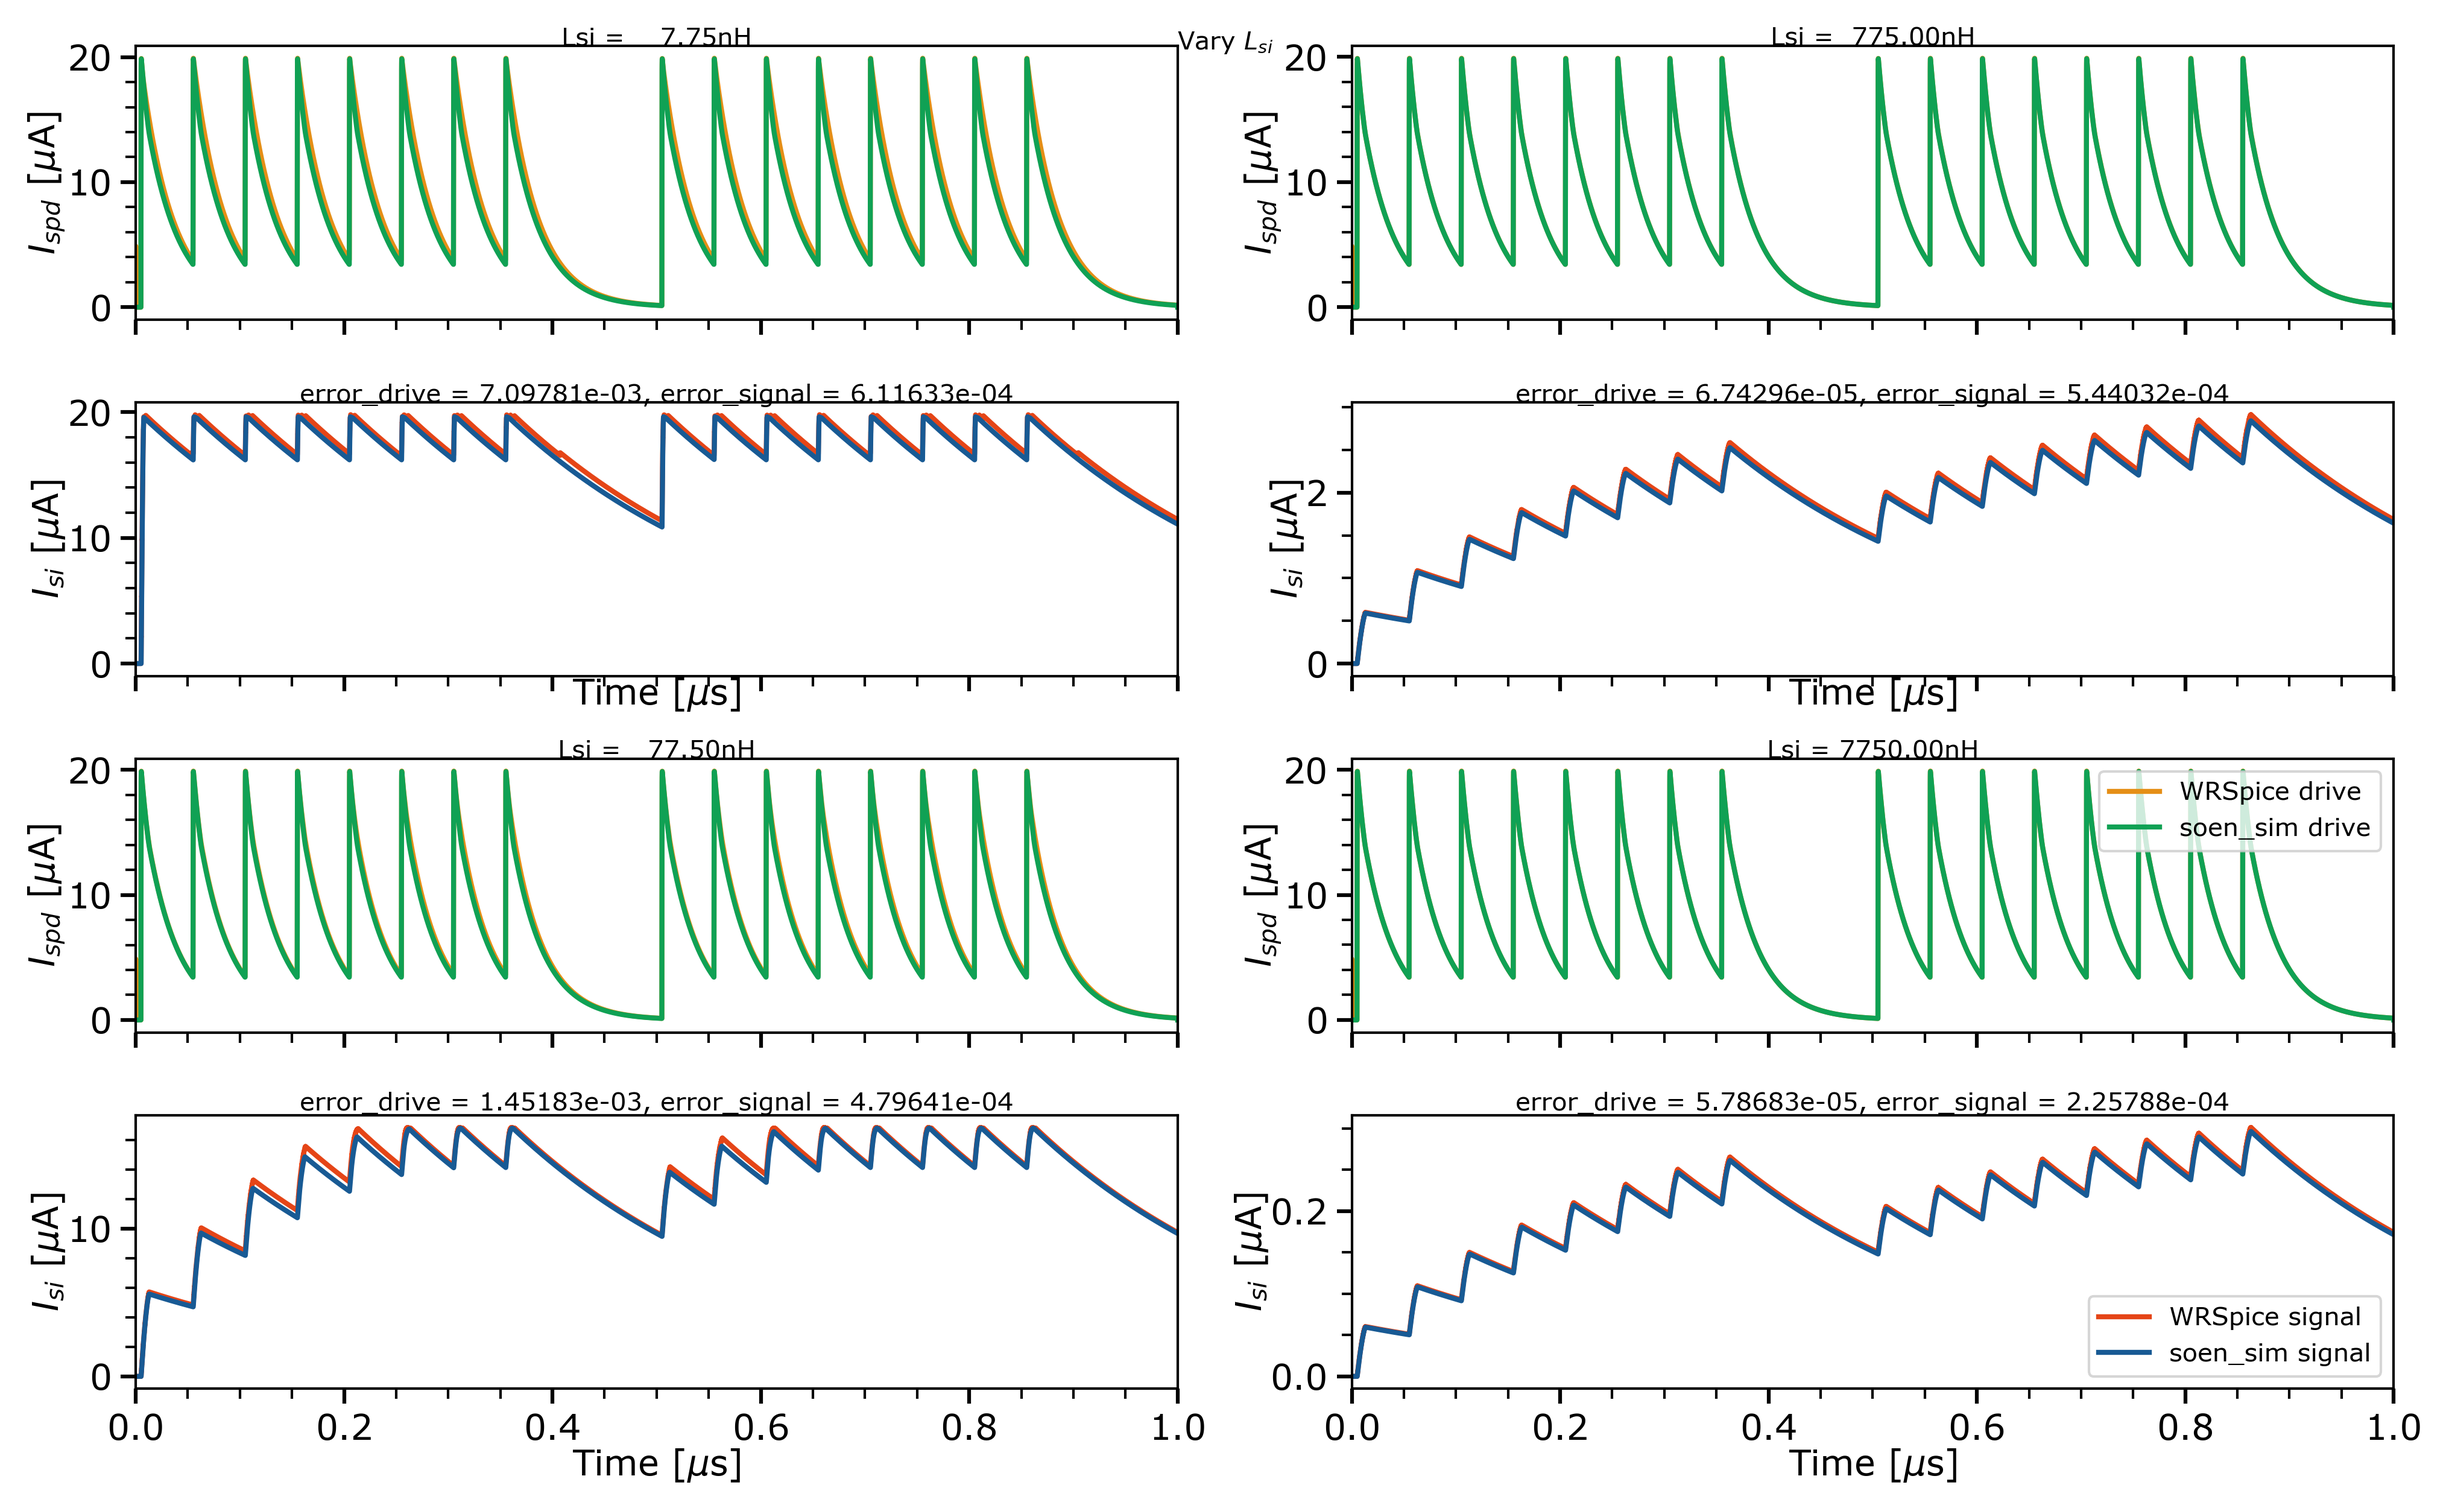
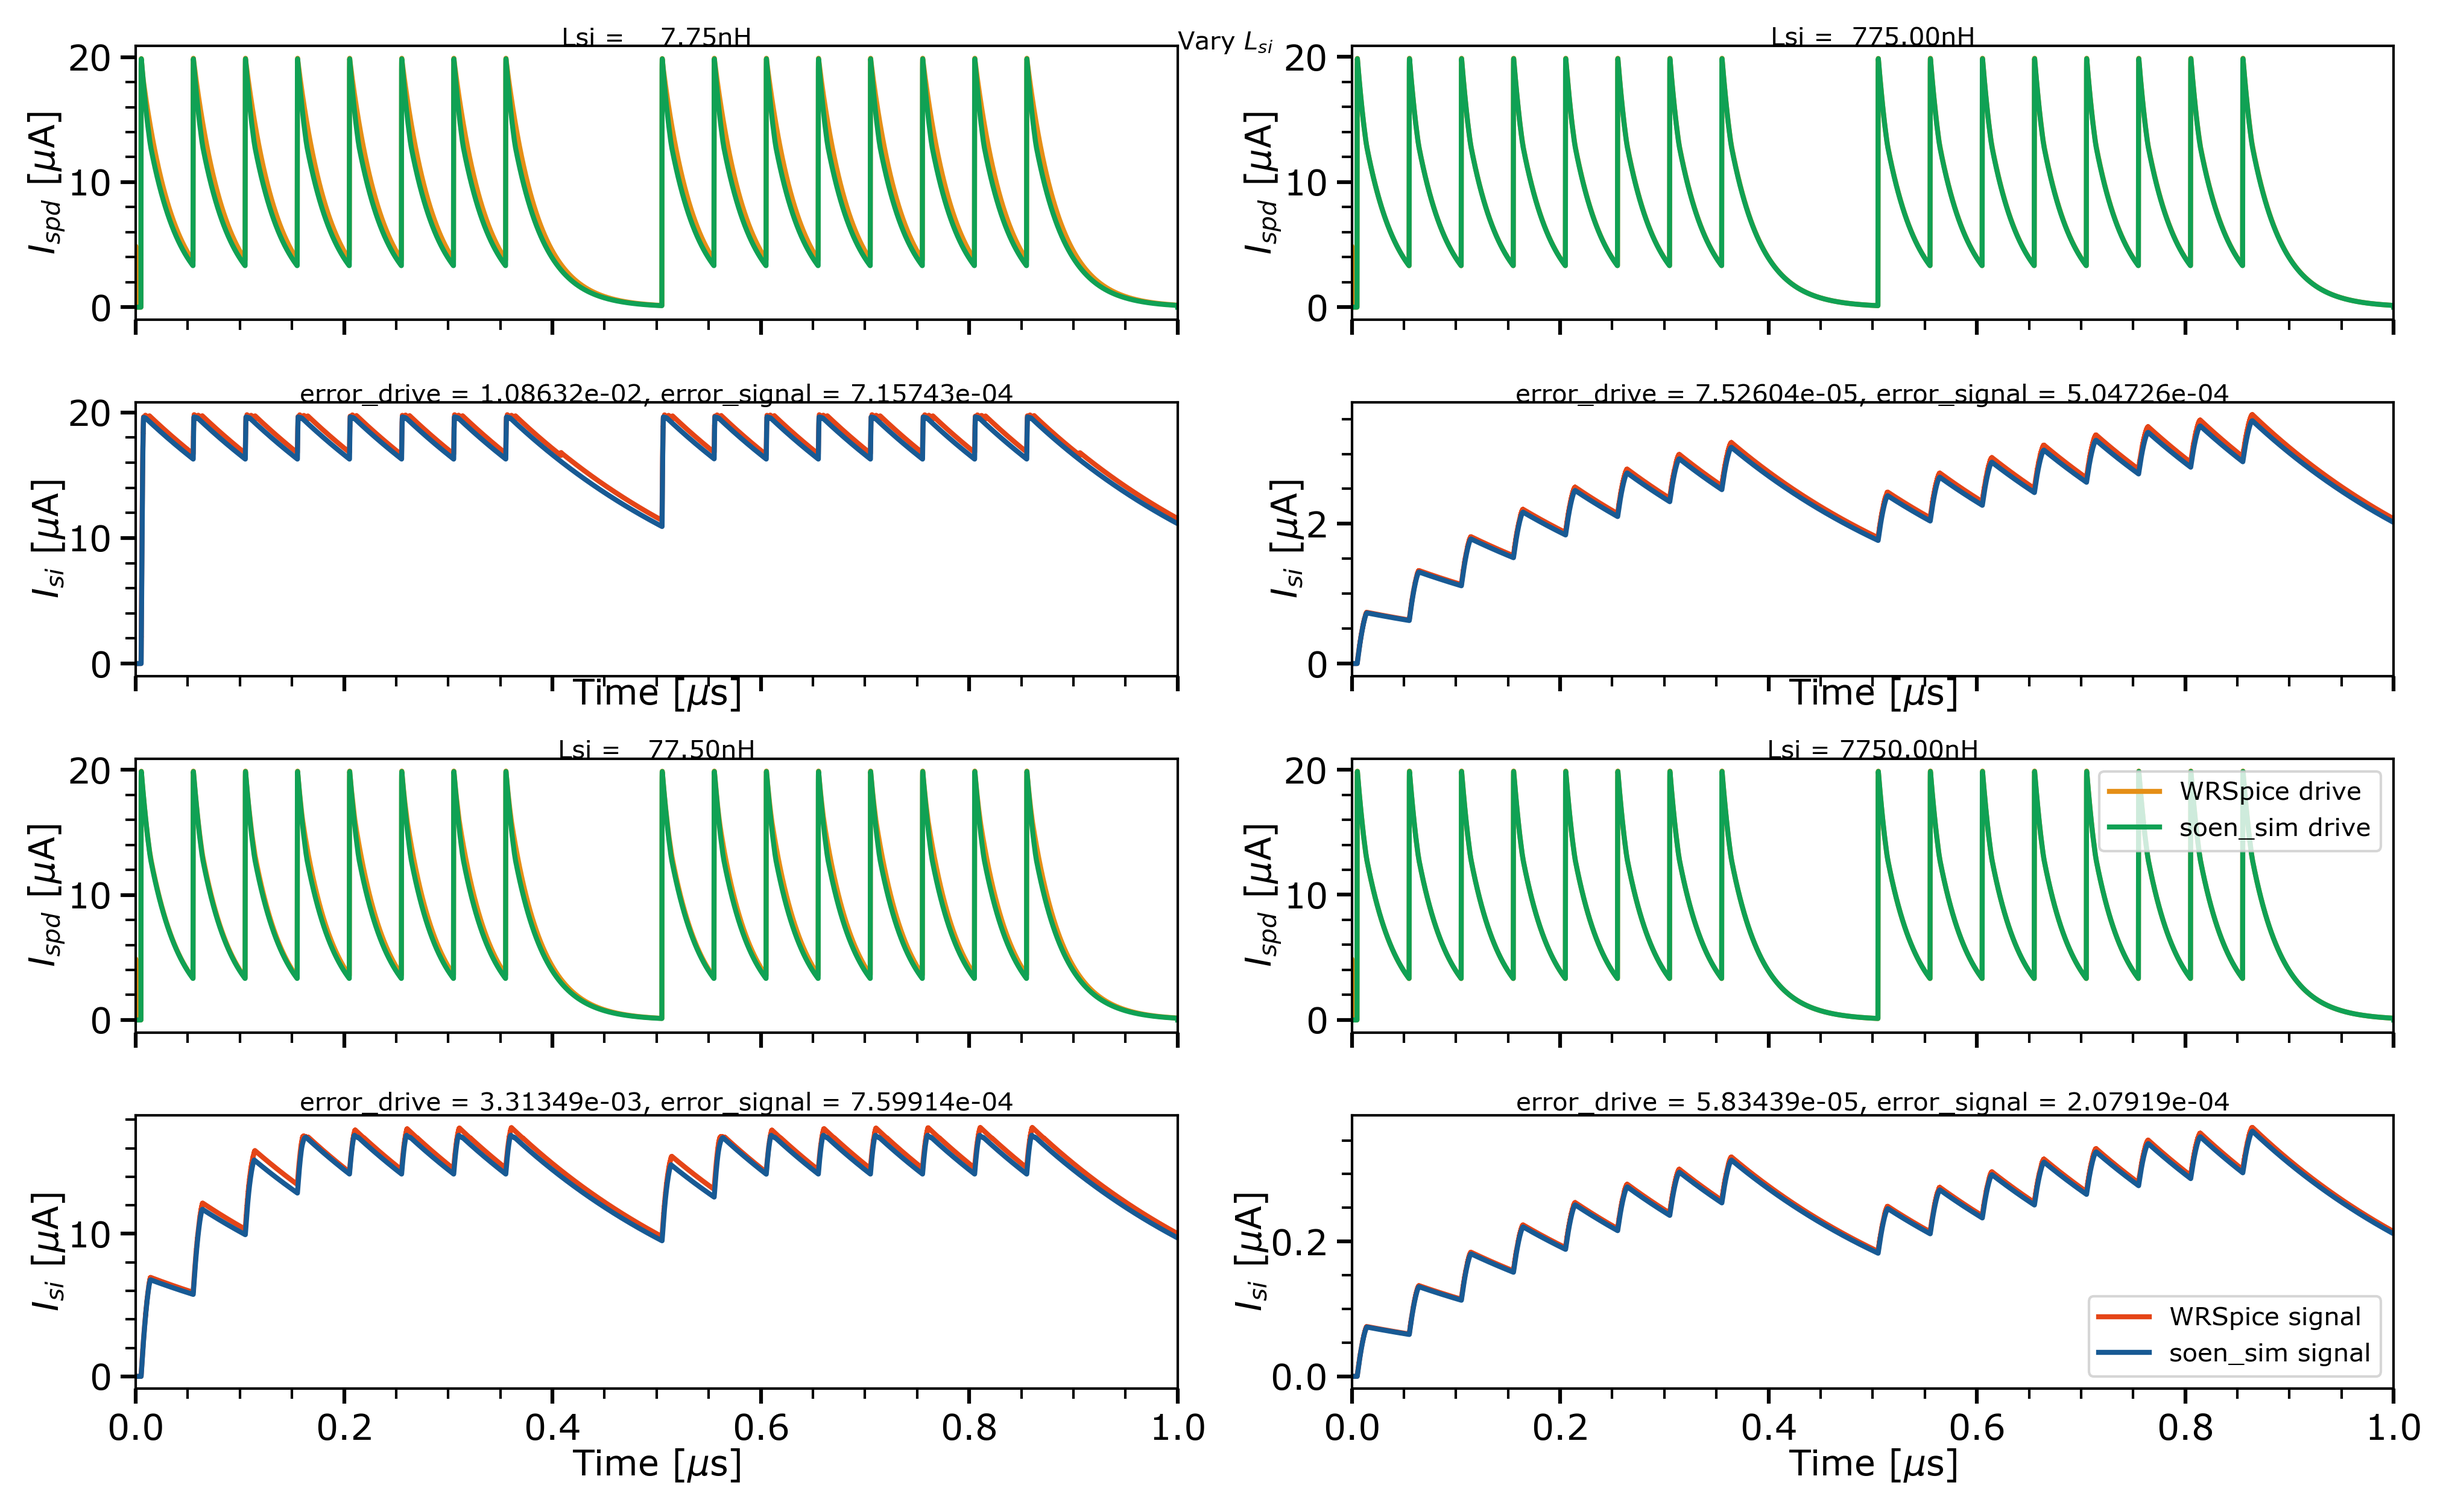
synapse figs

diff --git a/synapse_testing/s__syn__3jj__testing_lookup_table_model.py b/synapse_testing/s__syn__3jj__testing_lookup_table_model.py
@@ -16,7 +16,7 @@ plt.close('all')
 I_spd = 20e-6
 
 spike_times = [5e-9,55e-9,105e-9,155e-9,205e-9,255e-9,305e-9,355e-9,505e-9,555e-9,605e-9,655e-9,705e-9,755e-9,805e-9,855e-9]    
-I_sy_vec = [23e-6,28e-6,33e-6,38e-6,28e-6,28e-6,28e-6,28e-6,33e-6,33e-6,33e-6,33e-6]
+I_sy_vec = [23e-6,28e-6,33e-6,38e-6,29e-6,29e-6,29e-6,29e-6,32e-6,32e-6,32e-6,32e-6]
 L_si_vec = [77.5e-9,77.5e-9,77.5e-9,77.5e-9,7.75e-9,77.5e-9,775e-9,7.75e-6,775e-9,775e-9,775e-9,775e-9]
 tau_si_vec = [250e-9,250e-9,250e-9,250e-9,250e-9,250e-9,250e-9,250e-9,10e-9,50e-9,250e-9,1.25e-6]
 
@@ -50,7 +50,7 @@ for ii in range(num_files): # range(1): #
     print('\nii = {} of {}\n'.format(ii+1,num_files))
     
     #load WR data
-    file_name = 'syn_Ispd20.00uA_Isy{:04.2f}uA_Lsi{:07.2f}nH_tausi{:04.0f}ns_dt10.0ps_tsim1000ns.dat'.format(I_sy_vec[ii]*1e6,L_si_vec[ii]*1e9,tau_si_vec[ii]*1e9)
+    file_name = 'syn_3jj_Ispd20.00uA_Isy{:04.2f}uA_Ijtl36.00uA_Isc35.00uA_trep50ns_Lsi{:07.2f}nH_tausi{:04.0f}ns_dt10.0ps_tsim1000ns.dat'.format(I_sy_vec[ii]*1e6,L_si_vec[ii]*1e9,tau_si_vec[ii]*1e9)
     data_dict = read_wr_data('wrspice_data/test_data/3jj/'+file_name)
     target_drive = np.vstack((data_dict['time'],data_dict['L0#branch']))
     target_drive_array.append(target_drive)

diff --git a/synapse_testing/s__syn__3jj__testing_lookup_table_model__error_vs_dt.py b/synapse_testing/s__syn__3jj__testing_lookup_table_model__error_vs_dt.py
@@ -25,11 +25,13 @@ tf = 1e-6
 data_file_list = []
 
 spike_times = [5e-9,55e-9,105e-9,155e-9,205e-9,255e-9,305e-9,355e-9,505e-9,555e-9,605e-9,655e-9,705e-9,755e-9,805e-9,855e-9]    
-I_sy_vec = [23e-6,28e-6,33e-6,38e-6,28e-6,28e-6,28e-6,28e-6,32e-6,32e-6,32e-6,32e-6]
+I_sy_vec = [23e-6,28e-6,33e-6,38e-6,29e-6,29e-6,29e-6,29e-6,32e-6,32e-6,32e-6,32e-6]
 L_si_vec = [77.5e-9,77.5e-9,77.5e-9,77.5e-9,7.75e-9,77.5e-9,775e-9,7.75e-6,775e-9,775e-9,775e-9,775e-9]
 tau_si_vec = [250e-9,250e-9,250e-9,250e-9,250e-9,250e-9,250e-9,250e-9,10e-9,50e-9,250e-9,1.25e-6]
+
 for ii in range(len(I_sy_vec)):
-    data_file_list.append('syn_Ispd20.00uA_Isy{:04.2f}uA_Lsi{:07.2f}nH_tausi{:04.0f}ns_dt10.0ps_tsim1000ns.dat'.format(I_sy_vec[ii]*1e6,L_si_vec[ii]*1e9,tau_si_vec[ii]*1e9)) 
+    
+    data_file_list.append('syn_3jj_Ispd20.00uA_Isy{:04.2f}uA_Ijtl36.00uA_Isc35.00uA_trep50ns_Lsi{:07.2f}nH_tausi{:04.0f}ns_dt10.0ps_tsim1000ns.dat'.format(I_sy_vec[ii]*1e6,L_si_vec[ii]*1e9,tau_si_vec[ii]*1e9)) 
 
 num_files = len(data_file_list)    
 error_mat = np.zeros([num_files,len(dt_vec)])
